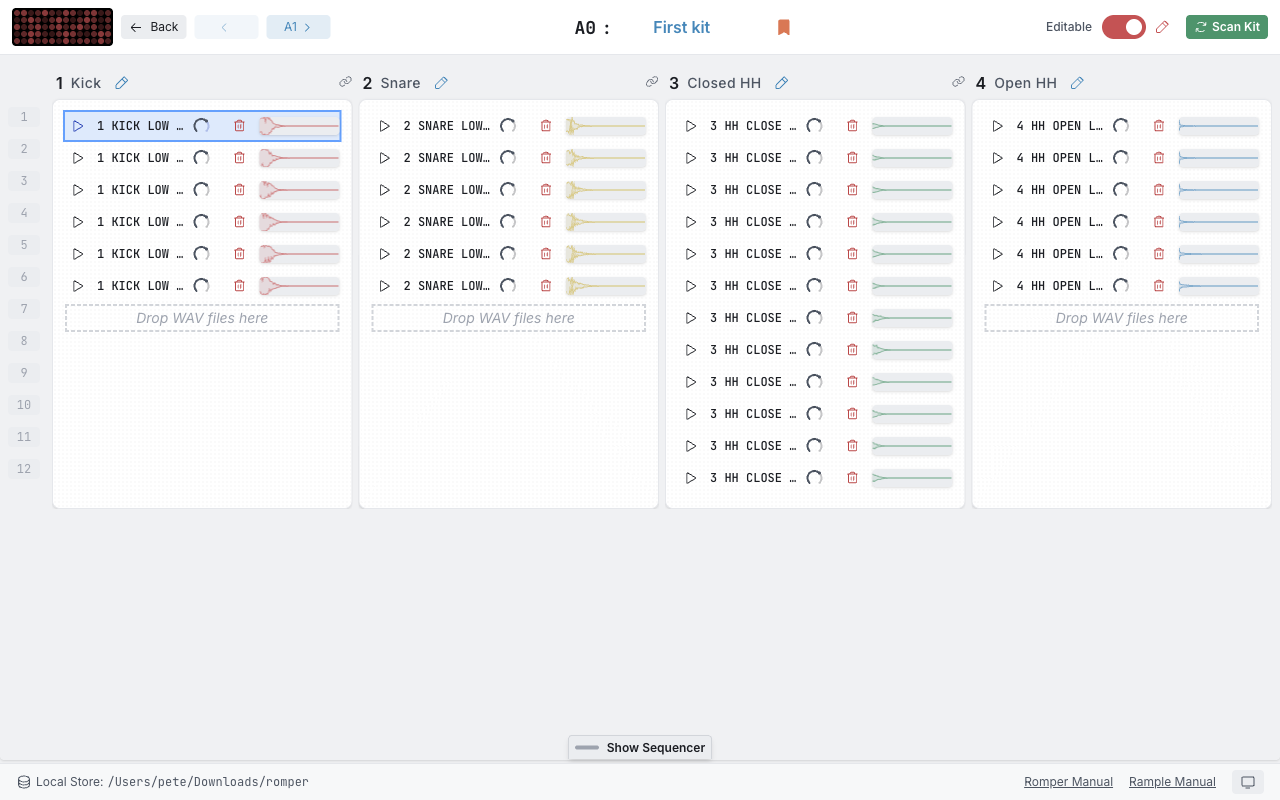
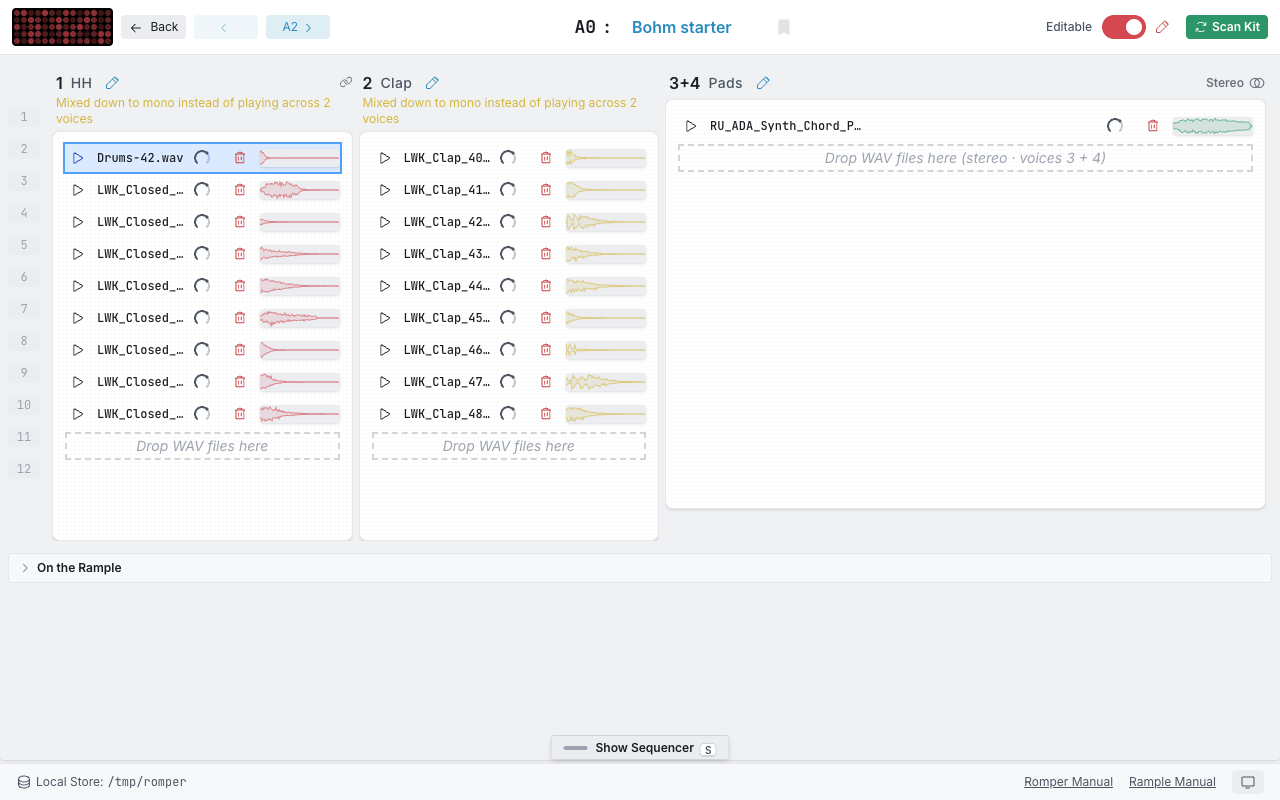
docs(kit-editor): screenshots of the On the Rample section, and stage 2's names (#800)
Reads copies through stage 2's RAMPLE_SAVE_BACKUP_FOLDER and
RAMPLE_SAVE_BACKUP_NAME (now exported), so a copy still being written
(.partial) is never read and the folder is named once. Pete approved the
wording on #800. The kit-editor screenshot shows the collapsed section;
the manual's new section gets its own image. The roadmap marks stage 3
done except the kit-card marker.

diff --git a/electron/main/rample/rampleKitSaveView.ts b/electron/main/rample/rampleKitSaveView.ts
@@ -24,13 +24,11 @@ import * as fs from "node:fs";
 import * as path from "node:path";
 
 import { isOpaqueItem } from "./cbor.js";
+import {
+  RAMPLE_SAVE_BACKUP_FOLDER,
+  RAMPLE_SAVE_BACKUP_NAME,
+} from "./rampleSaveBackup.js";
 import { readRampleSaveFolder } from "./rampleSaveReader.js";
-
-/**
- * The store's copies of the card's `_save` folder, one folder per copy,
- * under `.romperdb` (decision D2 on #786; stage 2 takes them).
- */
-export const RAMPLE_SAVE_COPIES_FOLDER = "rample-save";
 
 /** A copy of the card's `_save` folder in the store. */
 export interface RampleSaveCopy extends RampleSaveCopyInfo {
@@ -50,14 +48,16 @@ const KNOWN_KIT_KEYS: ReadonlySet<string> = new Set<string>(
 );
 
 /**
- * The latest copy of the card's `_save` folder in the store, or null when
- * there's none. Copies are named so their names sort in the order they
- * were taken; the last folder by name is the latest.
+ * The latest copy of the card's `_save` folder in the store (stage 2,
+ * `rampleSaveBackup.ts`), or null when there's none. Copies are named so
+ * their names sort in the order they were taken; the last by name is the
+ * latest. Only folders named as copies count, never one still being
+ * written (`.partial`).
  */
 export async function findLatestRampleSaveCopy(
   dbDir: string,
 ): Promise<null | RampleSaveCopy> {
-  const copiesDir = path.join(dbDir, RAMPLE_SAVE_COPIES_FOLDER);
+  const copiesDir = path.join(dbDir, RAMPLE_SAVE_BACKUP_FOLDER);
   let entries: fs.Dirent[];
   try {
     entries = await fs.promises.readdir(copiesDir, { withFileTypes: true });
@@ -66,17 +66,20 @@ export async function findLatestRampleSaveCopy(
     throw error;
   }
   const latest = entries
-    .filter((entry) => entry.isDirectory() && !entry.name.startsWith("."))
+    .filter(
+      (entry) =>
+        entry.isDirectory() && RAMPLE_SAVE_BACKUP_NAME.test(entry.name),
+    )
     .map((entry) => entry.name)
     .sort(compareBytes)
     .at(-1);
   if (latest === undefined) return null;
 
-  const copyPath = path.join(copiesDir, latest);
-  const takenAt =
-    takenAtFromFolderName(latest) ??
-    (await fs.promises.stat(copyPath)).mtime.toISOString();
-  return { folderName: latest, path: copyPath, takenAt };
+  return {
+    folderName: latest,
+    path: path.join(copiesDir, latest),
+    takenAt: takenAtFromFolderName(latest),
+  };
 }
 
 /**

diff --git a/electron/main/rample/__tests__/rampleKitSaveView.test.ts b/electron/main/rample/__tests__/rampleKitSaveView.test.ts
@@ -15,12 +15,12 @@ import {
 import { decodeCbor, encodeCbor } from "../cbor";
 import {
   findLatestRampleSaveCopy,
-  RAMPLE_SAVE_COPIES_FOLDER,
   readKitRampleSave,
   takenAtFromFolderName,
   toRampleDisplayValue,
   valueAtKeyPath,
 } from "../rampleKitSaveView";
+import { RAMPLE_SAVE_BACKUP_FOLDER } from "../rampleSaveBackup";
 
 // Named as stage 2 names its copies
 const COPY = "2026-10-09T04-12-58-000Z-setup";
@@ -31,7 +31,7 @@ describe("[UC-08] [Q-08] the kit editor's view of a kit's saved Rample settings 
 
   beforeEach(() => {
     store = fs.mkdtempSync(path.join(os.tmpdir(), "romper-rample-view-"));
-    copies = path.join(store, ".romperdb", RAMPLE_SAVE_COPIES_FOLDER);
+    copies = path.join(store, ".romperdb", RAMPLE_SAVE_BACKUP_FOLDER);
   });
 
   afterEach(() => {
@@ -62,7 +62,8 @@ describe("[UC-08] [Q-08] the kit editor's view of a kit's saved Rample settings 
       writeCopy(COPY, {});
       writeCopy("2026-10-05T09-00-00-000Z-write", {});
       fs.writeFileSync(path.join(copies, "zz-not-a-folder"), "");
-      fs.mkdirSync(path.join(copies, ".partial"));
+      // A copy still being written, newer than every finished one
+      fs.mkdirSync(path.join(copies, "2026-10-10T00-00-00-000Z-write.partial"));
 
       const latest = await findLatestRampleSaveCopy(
         path.join(store, ".romperdb"),
@@ -75,13 +76,15 @@ describe("[UC-08] [Q-08] the kit editor's view of a kit's saved Rample settings 
       });
     });
 
-    it("falls back to the folder's time when its name has no date", async () => {
-      writeCopy("setup", {});
-      const latest = await findLatestRampleSaveCopy(
-        path.join(store, ".romperdb"),
+    it("counts only folders stage 2 named as copies", async () => {
+      writeCopy("setup", syntheticSaveFolder());
+      writeCopy(
+        "2026-10-10T00-00-00-000Z-write.partial",
+        syntheticSaveFolder(),
       );
-      expect(latest?.folderName).toBe("setup");
-      expect(Number.isNaN(Date.parse(latest?.takenAt ?? ""))).toBe(false);
+      expect(
+        await findLatestRampleSaveCopy(path.join(store, ".romperdb")),
+      ).toBeNull();
     });
   });
 

diff --git a/electron/main/rample/rampleSaveBackup.ts b/electron/main/rample/rampleSaveBackup.ts
@@ -56,8 +56,11 @@ interface CardFile {
   name: string;
 }
 
-/** A whole copy's folder name; group 1 is when it was taken */
-const BACKUP_NAME =
+/**
+ * A whole copy's folder name; group 1 is why it was taken. A copy still
+ * being written (`<name>.partial`) doesn't match.
+ */
+export const RAMPLE_SAVE_BACKUP_NAME =
   /^\d{4}-\d{2}-\d{2}T\d{2}-\d{2}-\d{2}-\d{3}Z-(setup|write)(?:-\d+)?$/;
 
 /**
@@ -248,7 +251,8 @@ async function removeOldBackups(
     const writeCopies = entries
       .filter(
         (entry) =>
-          entry.isDirectory() && BACKUP_NAME.exec(entry.name)?.[1] === "write",
+          entry.isDirectory() &&
+          RAMPLE_SAVE_BACKUP_NAME.exec(entry.name)?.[1] === "write",
       )
       .map((entry) => entry.name)
       .sort(compareBytes);

diff --git a/tests/utils/rample-save-copy.ts b/tests/utils/rample-save-copy.ts
@@ -12,7 +12,7 @@ import fs from "fs-extra";
 import path from "node:path";
 
 import { encodeCbor } from "../../electron/main/rample/cbor";
-import { RAMPLE_SAVE_COPIES_FOLDER } from "../../electron/main/rample/rampleKitSaveView";
+import { RAMPLE_SAVE_BACKUP_FOLDER } from "../../electron/main/rample/rampleSaveBackup";
 import {
   syntheticGlobalAssign,
   syntheticKitSave,
@@ -34,7 +34,7 @@ export async function seedRampleSaveCopy(
   const copy = path.join(
     localStorePath,
     ".romperdb",
-    RAMPLE_SAVE_COPIES_FOLDER,
+    RAMPLE_SAVE_BACKUP_FOLDER,
     RAMPLE_SAVE_COPY_NAME,
   );
   await fs.ensureDir(copy);

diff --git a/docs/developer/rample-save-integration.md b/docs/developer/rample-save-integration.md
@@ -4,7 +4,7 @@ priority: low
 status: specification
 updated: 2026-10-08
 context_size: medium
-implementation_status: stage 0 (docs, #789), stage 1a (the write code's guard, #787), stage 1b (the read-only reader, #788) and stage 2 (a copy in the store, #802) built; Pete's files committed as fixtures (D1); stages 3-6 not built
+implementation_status: stage 0 (docs, #789), stage 1a (the write code's guard, #787), stage 1b (the read-only reader, #788) stage 2 (a copy in the store, #802) and stage 3 (the kit editor's read-only view, #800; the kit-card marker still to do) built; Pete's files committed as fixtures (D1); stages 4-6 not built
 -->
 
 # The Rample's `_save` folder: reading it, then writing it
@@ -296,12 +296,13 @@ public decode.
 
 ## Romper today
 
-- **Copied, not imported or decoded.** Setup imports only folders that
+- **Copied, and shown read-only.** Setup imports only folders that
   pass `isValidKit` (`shared/kitUtilsShared.ts`), so `_save` isn't
   imported as a kit; setup and every write keep an opaque copy of it in
   the store instead (stage 2, #802). Scans read the store, not the card.
   The stage 1b reader (`electron/main/rample/`) decodes a copy of the
-  folder for `npm run rample:save`; nothing in the app calls it yet.
+  folder for `npm run rample:save`, and the kit editor's "On the Rample"
+  section shows a kit's file from the latest copy (stage 3, #800).
 - **Never changed by a write, by name.** The folder is named once
   (`DEVICE_SAVE_FOLDER` in `shared/rampleCardLayout.ts`, compared ignoring
   case and trailing dots and spaces). The only removal path,
@@ -545,7 +546,7 @@ Two PRs, both without UI.
   stores the snapshot before writing; a test that an unreadable `_save`
   doesn't fail setup or the write.
 
-### Stage 3: show the device's saved settings for a kit (blocked on D3)
+### Stage 3: show the device's saved settings for a kit ([#800](https://github.com/peteb4ker/romper/issues/800)). **Done**, except the kit-card marker.
 
 - A read-only "On the Rample" view of a kit's latest copy of
   `<kit>.rpl`: per voice level, pitch, filter, bits, freeze, env, start,
@@ -571,8 +572,9 @@ Two PRs, both without UI.
 - **As built** ([#800](https://github.com/peteb4ker/romper/issues/800)):
   `readKitRampleSave` (`electron/main/rample/rampleKitSaveView.ts`) reads
   the kit's file from the store's latest copy (the last folder by name
-  under `.romperdb/rample-save/`; when it was taken comes from the folder
-  name, which starts with the date and time) with the stage 1b reader, and
+  under `.romperdb/rample-save/` that stage 2 named as a copy, so a
+  `.partial` folder is never read; when it was taken comes from the
+  name) with the stage 1b reader, and
   sends the renderer a plain view (`shared/rampleKitSaveView.ts`) on
   `get-kit-rample-save`: found, no copy yet, no file for the kit, or
   unreadable. Unknown keys, and known keys of an unexpected shape, come

diff --git a/docs/manual/kit-editor.md b/docs/manual/kit-editor.md
@@ -188,6 +188,8 @@ See the full [Step Sequencer]({{ site.baseurl }}/manual/step-sequencer) guide fo
 
 When you **STORE** a kit on the Rample, the device saves that kit's settings on the card: each voice's level, pitch, filter, bits, freeze, envelope, start, length and run mode, its layer mode and selected layer, and the kit's mute groups and CV assignments. The **On the Rample** section at the bottom of the Kit Editor shows what the device saved for the kit you're looking at. It starts collapsed; click its title, or press `Enter` or `Space` on it, to open it.
 
+![The On the Rample section, open, with a kit's saved settings]({{ site.baseurl }}/images/manual/kit-rample-save.png)
+
 The section reads Romper's latest copy of the card's saved settings, not the card itself, and says when that copy was taken. Romper takes a copy when you set up from a card and before each write. It only reads: nothing here changes what the Rample saved.
 
 - **Raw values.** The numbers are the ones the Rample stores, not the units or names it shows on its screen, because what most of them mean hasn't been checked on a Rample yet. Knobs probably run from 0 to 254, with 127 in the middle; the small gauge beside each knob value marks 127 with a line. Names with a dotted underline are Romper's best guess at what each value is, and the device's own name for it is shown beside it.
